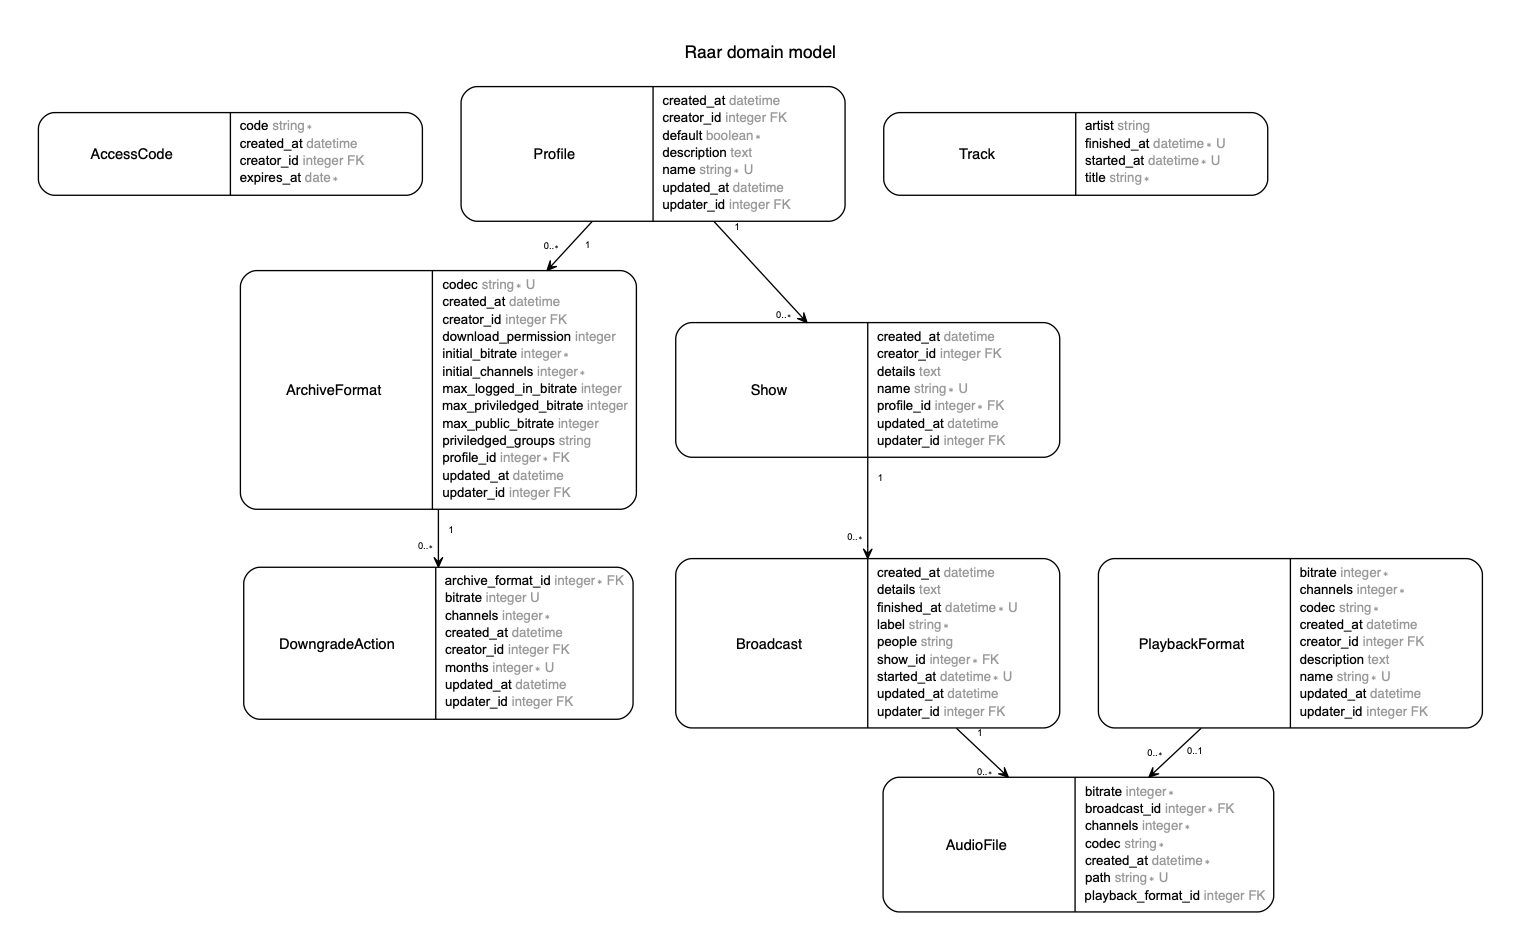
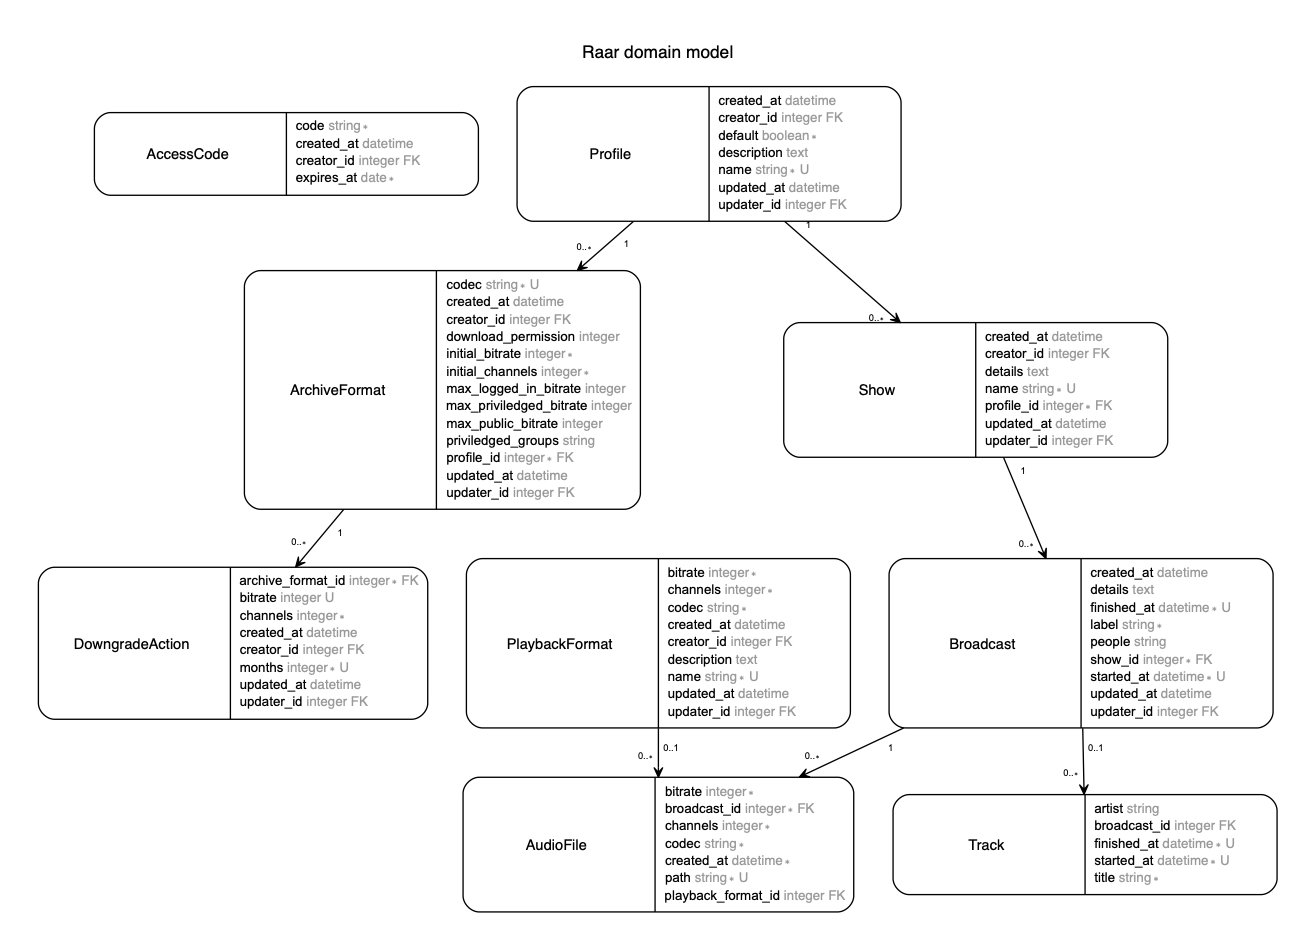
add broadcast_id to tracks

diff --git a/test/models/broadcast_test.rb b/test/models/broadcast_test.rb
@@ -63,4 +63,63 @@ class BroadcastTest < ActiveSupport::TestCase
     assert_equal broadcasts(:klangbecken_mai1, :g9s_mai, :klangbecken_mai2),
                  Broadcast.within(bc.started_at - 1.minute, bc.finished_at + 1.minute).list
   end
+
+  test 'creating broadcasts sets relation in tracks' do
+    t1 = Track.create!(
+      title: 'foo',
+      started_at: Time.zone.local(2016, 8, 20, 9, 18, 13),
+      finished_at: Time.zone.local(2016, 8, 20, 9, 22, 17)
+    )
+    t2 = Track.create!(
+      title: 'foo',
+      started_at: Time.zone.local(2016, 8, 20, 9, 27, 1),
+      finished_at: Time.zone.local(2016, 8, 20, 9, 29, 59)
+    )
+    t3 = Track.create!(
+      title: 'foo',
+      started_at: Time.zone.local(2016, 8, 20, 10, 4, 13),
+      finished_at: Time.zone.local(2016, 8, 20, 10, 9, 33)
+    )
+
+    b = Broadcast.create!(
+      show: shows(:klangbecken),
+      started_at: Time.zone.local(2016, 8, 20, 8),
+      finished_at: Time.zone.local(2016, 8, 20, 10)
+    )
+
+    assert_equal b, t1.reload.broadcast
+    assert_equal b, t2.reload.broadcast
+    assert_nil t3.reload.broadcast
+  end
+
+  test 'broadcasts lapping to next is invalid' do
+    broadcast = broadcasts(:klangbecken_mai1)
+    broadcast.finished_at += 1.minute
+    assert !broadcast.valid?
+    assert_equal ['must not overlap with other entries'], broadcast.errors['started_at']
+  end
+
+  test 'broadcasts lapping to previous is invalid' do
+    broadcast = broadcasts(:klangbecken_mai1)
+    broadcast.started_at -= 1.minute
+    assert !broadcast.valid?
+    assert_equal ['must not overlap with other entries'], broadcast.errors['started_at']
+  end
+
+  test 'broadcasts during other is invalid' do
+    broadcast = broadcasts(:klangbecken_mai1)
+    broadcast.started_at = broadcasts(:g9s_mai).started_at + 5.minutes
+    broadcast.finished_at = broadcasts(:g9s_mai).finished_at - 5.minutes
+    assert !broadcast.valid?
+    assert_equal ['must not overlap with other entries'], broadcast.errors['started_at']
+  end
+
+  test 'broadcasts at same time as other is invalid' do
+    broadcast = broadcasts(:klangbecken_mai1)
+    broadcast.started_at = broadcasts(:g9s_mai).started_at
+    broadcast.finished_at = broadcasts(:g9s_mai).finished_at
+    assert !broadcast.valid?
+    assert_equal ['must not overlap with other entries'], broadcast.errors['started_at']
+  end
+
 end

diff --git a/app/models/track.rb b/app/models/track.rb
@@ -2,14 +2,21 @@
 #
 # Table name: tracks
 #
-#  id          :integer          not null, primary key
-#  title       :string           not null
-#  artist      :string
-#  started_at  :datetime         not null
-#  finished_at :datetime         not null
+#  id           :integer          not null, primary key
+#  title        :string           not null
+#  artist       :string
+#  started_at   :datetime         not null
+#  finished_at  :datetime         not null
+#  broadcast_id :integer
 #
 
 class Track < ApplicationRecord
+
+  include NonOverlappable
+
+  belongs_to :broadcast, optional: true
+
+  before_save :assign_broadcast, if: :started_at_changed?
 
   validates :title, :started_at, :finished_at, presence: true
   validates :started_at, :finished_at, uniqueness: true
@@ -22,10 +29,7 @@ class Track < ApplicationRecord
     end
 
     def for_show(show_id)
-      joins('INNER JOIN broadcasts ' \
-            'ON tracks.started_at >= broadcasts.started_at ' \
-            'AND tracks.started_at < broadcasts.finished_at')
-        .where(broadcasts: { show_id: show_id })
+      joins(:broadcast).where(broadcasts: { show_id: show_id })
     end
   end
 
@@ -36,6 +40,12 @@ class Track < ApplicationRecord
   # duration in seconds
   def duration
     finished_at - started_at
+  end
+
+  private
+
+  def assign_broadcast
+    self.broadcast = Broadcast.at(started_at).first
   end
 
 end

diff --git a/test/models/track_test.rb b/test/models/track_test.rb
@@ -2,13 +2,13 @@
 #
 # Table name: tracks
 #
-#  id          :integer          not null, primary key
-#  title       :string           not null
-#  artist      :string
-#  started_at  :datetime         not null
-#  finished_at :datetime         not null
+#  id           :integer          not null, primary key
+#  title        :string           not null
+#  artist       :string
+#  started_at   :datetime         not null
+#  finished_at  :datetime         not null
+#  broadcast_id :integer
 #
-
 
 require 'test_helper'
 
@@ -48,6 +48,11 @@ class TrackTest < ActiveSupport::TestCase
   test '.for_show contains is empty if no tracks' do
     assert_equal [],
                  Track.for_show(shows(:info).id).list
+  end
+
+  test 'changing started_at updates broadcast' do
+    tracks(:jayz).update!(started_at: Time.zone.local(2013, 5, 20, 19, 58, 13))
+    assert_equal broadcasts(:klangbecken_mai1), tracks(:jayz).broadcast
   end
 
 end

diff --git a/app/models/broadcast.rb b/app/models/broadcast.rb
@@ -17,13 +17,17 @@
 class Broadcast < ApplicationRecord
 
   include UserStampable
+  include NonOverlappable
 
   belongs_to :show
 
   has_many :audio_files, dependent: :restrict_with_error
+  has_many :tracks, dependent: :nullify
 
   validates :label, :started_at, :finished_at, presence: true
   validates :started_at, :finished_at, uniqueness: true
+
+  after_create :assign_tracks
 
   before_validation :set_show_label_if_empty
 
@@ -48,14 +52,14 @@ class Broadcast < ApplicationRecord
     finished_at - started_at
   end
 
-  def tracks
-    Track.within(started_at, finished_at)
-  end
-
   private
 
   def set_show_label_if_empty
     self.label ||= show.name if show
+  end
+
+  def assign_tracks
+    Track.within(started_at, finished_at).update_all(broadcast_id: id)
   end
 
 end

diff --git a/app/serializers/track_serializer.rb b/app/serializers/track_serializer.rb
@@ -2,11 +2,12 @@
 #
 # Table name: tracks
 #
-#  id          :integer          not null, primary key
-#  title       :string           not null
-#  artist      :string
-#  started_at  :datetime         not null
-#  finished_at :datetime         not null
+#  id           :integer          not null, primary key
+#  title        :string           not null
+#  artist       :string
+#  started_at   :datetime         not null
+#  finished_at  :datetime         not null
+#  broadcast_id :integer
 #
 
 class TrackSerializer < ApplicationSerializer

diff --git a/app/models/concerns/non_overlappable.rb b/app/models/concerns/non_overlappable.rb
@@ -1,0 +1,24 @@
+module NonOverlappable
+
+  extend ActiveSupport::Concern
+
+  included do
+    validate :assert_not_overlapping
+  end
+
+  private
+
+  def assert_not_overlapping
+    scope = overlapping_scope
+    scope = scope.where.not(id: id) if persisted?
+    if scope.exists?
+      errors.add(:started_at, :must_not_overlap)
+      throw :abort
+    end
+  end
+
+  def overlapping_scope
+    self.class.where('started_at < ? AND finished_at > ?', finished_at, started_at)
+  end
+
+end

diff --git a/app/controllers/tracks_controller.rb b/app/controllers/tracks_controller.rb
@@ -106,15 +106,8 @@ class TracksController < CrudController
     scope = super
     scope = scope.within(*start_finish) if params[:year]
     scope = scope.for_show(params[:show_id]) if params[:show_id]
+    scope = scope.where(broadcast_id: params[:broadcast_id]) if params[:broadcast_id]
     scope
-  end
-
-  def model_scope
-    if params[:broadcast_id]
-      Broadcast.find(params[:broadcast_id]).tracks
-    else
-      super
-    end
   end
 
   def index_params?

diff --git a/db/schema.rb b/db/schema.rb
@@ -117,6 +117,8 @@ ActiveRecord::Schema.define(version: 2019_01_27_185449) do
     t.string "artist"
     t.datetime "started_at", null: false
     t.datetime "finished_at", null: false
+    t.integer "broadcast_id"
+    t.index ["broadcast_id"], name: "index_tracks_on_broadcast_id"
     t.index ["finished_at"], name: "index_tracks_on_finished_at", unique: true
     t.index ["started_at"], name: "index_tracks_on_started_at", unique: true
   end

diff --git a/db/migrate/20190127185449_create_tracks.rb b/db/migrate/20190127185449_create_tracks.rb
@@ -5,6 +5,7 @@ class CreateTracks < ActiveRecord::Migration[5.1]
       t.string :artist
       t.datetime :started_at, null: false, index: { unique: true }
       t.datetime :finished_at, null: false, index: { unique: true }
+      t.integer :broadcast_id, index: true
     end
   end
 end
